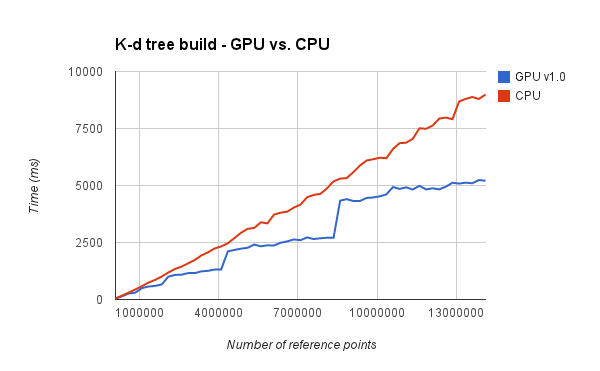
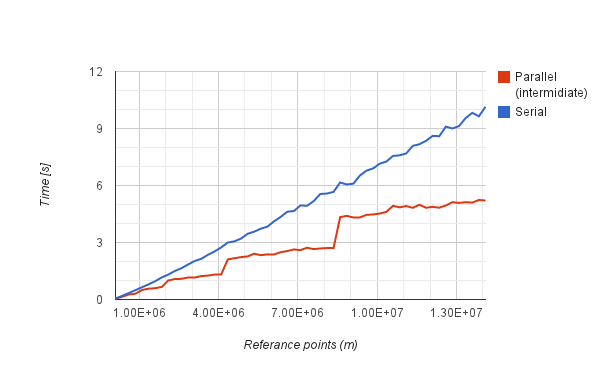
added final result in development of kd tree build parallel

diff --git a/report/tex/development_of_a_parallel_kd_tree_build_algorithm.tex b/report/tex/development_of_a_parallel_kd_tree_build_algorithm.tex
@@ -212,5 +212,24 @@ The implementation details are omitted here, but can be found in Appendix~\ref{s
 
 We also would like to improve performance, when Balance-Subtree is applied to many small subtrees. For instance, at level $18$ there are $131072$ different subtask with only an average size of $7$. The previous implementation divided all these subtask between a small number of SM, typically $8-32$ on current NVIDIA GPUs\@. The algorithm the uses to many cores to balance a subtree of only $7$ elements, which is not a efficient way to divide resources.
 
-Letting just one thread handle the Balance-Subtree operation for small subtrees, would let us process more subtrees in parallel, improving performance. With this parallelization, each thread is responsible for it's own subtree, and communication with other threads is no longer needed.Whith the need for communication eliminated, we can utilize Algorithm~\ref{alg:seriel_tree_build}. The final implementation can be found in Appendix~\ref{sec:parallel_quick_select}.
+Letting just one thread handle the Balance-Subtree operation for small subtrees, would let us process more subtrees in parallel, improving performance. With this parallelization, each thread is responsible for it's own subtree, and communication with other threads is no longer needed. With the need for communication eliminated, we can utilize Algorithm~\ref{alg:seriel_tree_build}. 
+
+\begin{figure}[ht!]
+\centering
+\includegraphics[width=100mm]{../gfx/the_jumps_final.png}
+\caption{Visualization of the final improvments on the k-d tree build implementation.}
+\label{fig:the_jumps_final}
+\end{figure}
+
+Now that a lot of improvments have been made, lets take a look at the results. Figure~\ref{fig:the_jumps_final} compare our imtermidiate result with our new and imporved version, and the changes made a huge impact on the performance. The jumps disappeared, and was replaced by a faster and smoother curve, indicating that the CUDA resources is perfectly balanced. The final implementation can be found in Appendix~\ref{sec:parallel_quick_select}.
+
+
+
+
+
+
+
+
+
+
 % subsection further_development (end)
